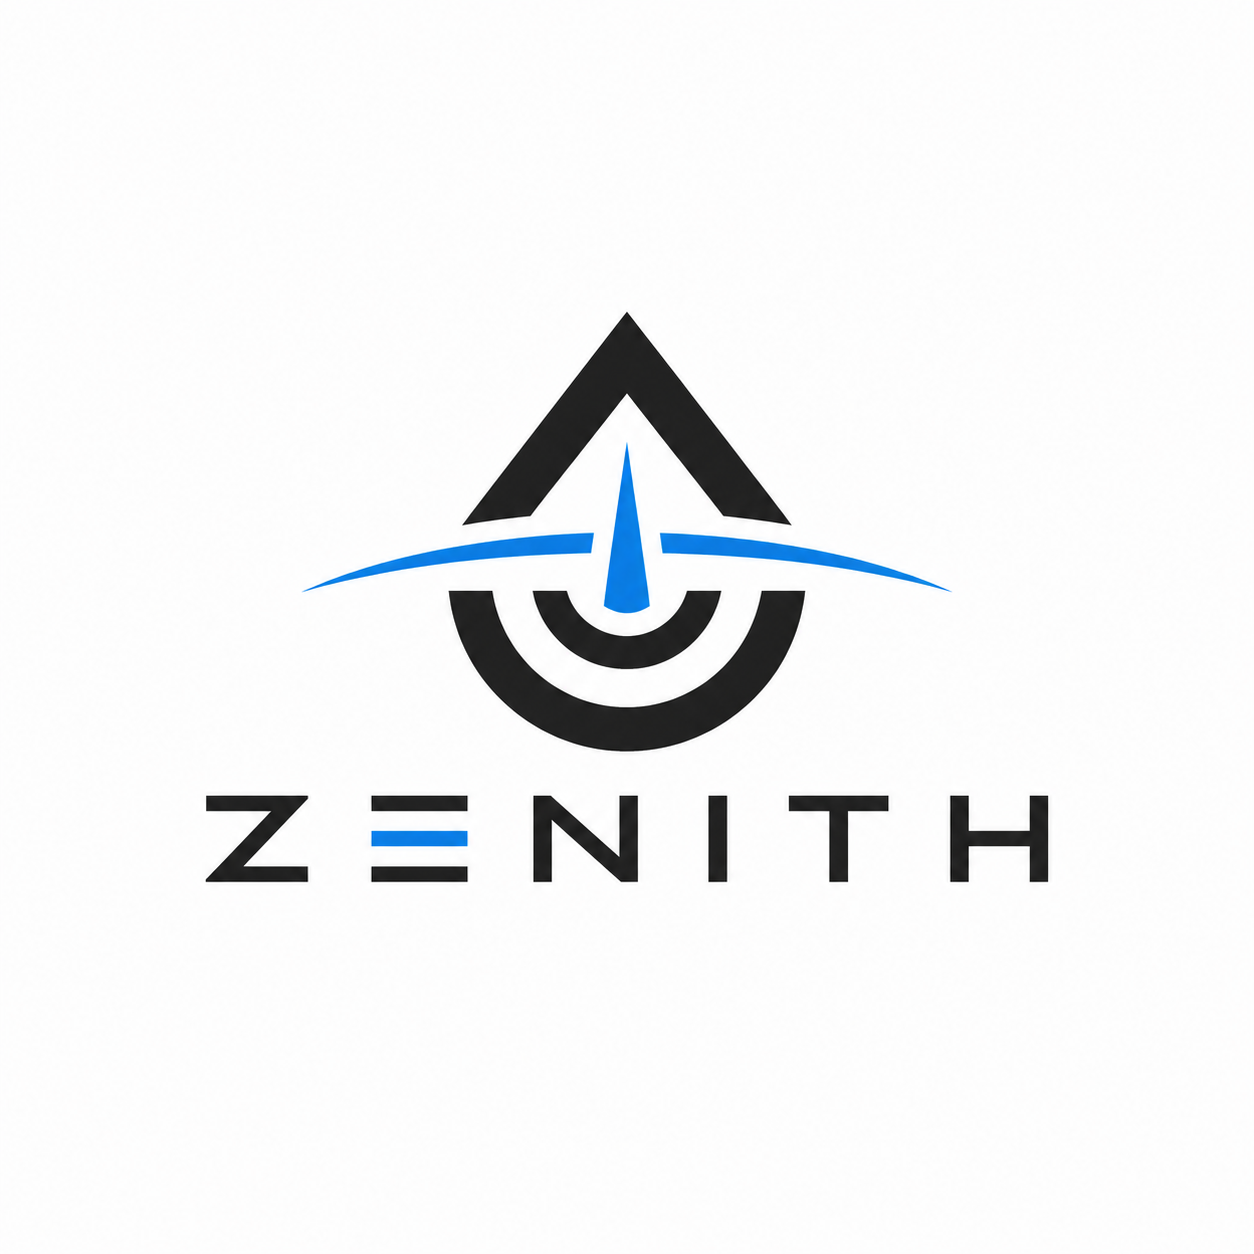
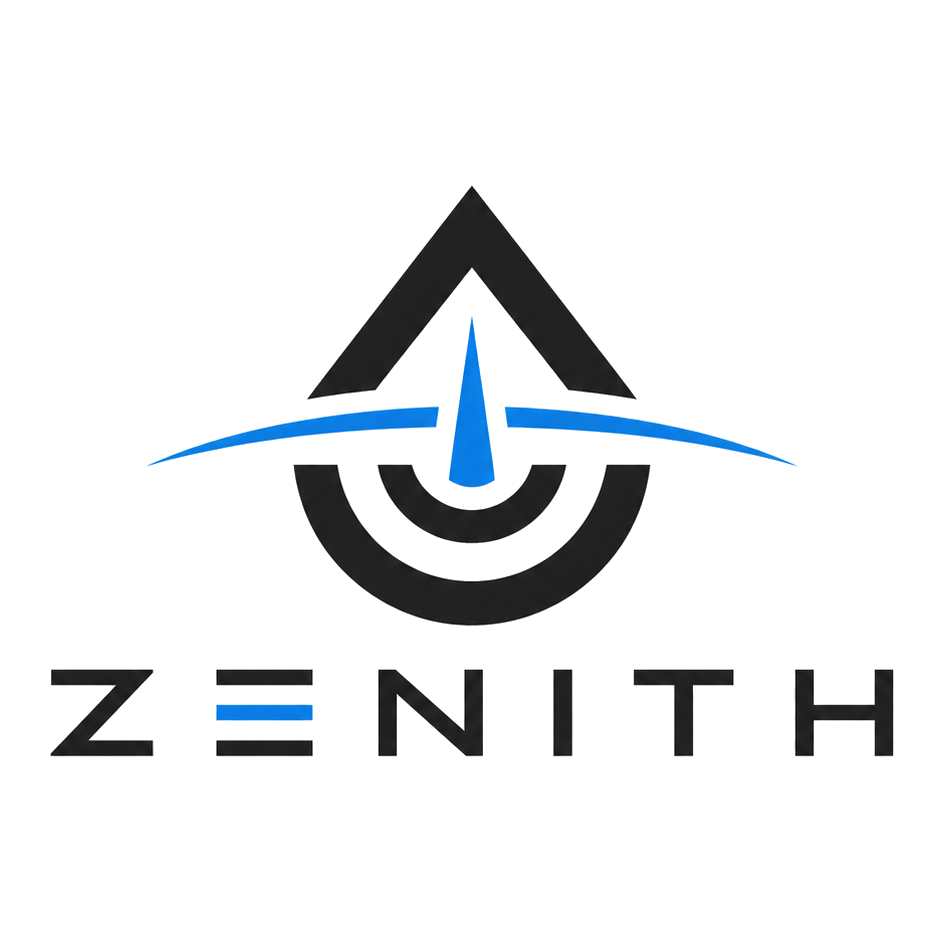
fix: Header恢复文字，Logo裁剪白边+透明背景生成ICO窗口图标
- Header 恢复 ZENITH/Ground Station 文字显示
- Zenith.png 裁剪纯白边距，背景替换为透明
- 新增 Zenith.ico 多尺寸图标(16-256px)，用于窗口和任务栏图标

diff --git a/qml/Main.qml b/qml/Main.qml
@@ -32,12 +32,10 @@ ApplicationWindow {
                     anchors.left: parent.left; anchors.verticalCenter: parent.verticalCenter
                     anchors.leftMargin: 14; spacing: 10
 
-                    Image {
-                        source: "qrc:/Zenith.png"
-                        width: 36; height: 36
-                        fillMode: Image.PreserveAspectFit
-                        anchors.verticalCenter: parent.verticalCenter
-                        smooth: true; mipmap: true
+                    Column {
+                        anchors.verticalCenter: parent.verticalCenter; spacing: 1
+                        Text { text: "ZENITH"; color: "#58A6FF"; font.pixelSize: 17; font.bold: true; font.letterSpacing: 3 }
+                        Text { text: "Ground Station"; color: "#6E7681"; font.pixelSize: 8; font.letterSpacing: 1 }
                     }
 
                     Rectangle { width: 1; height: 26; color: "#30363D"; anchors.verticalCenter: parent.verticalCenter }

diff --git a/src/main.cpp b/src/main.cpp
@@ -13,7 +13,7 @@ int main(int argc, char *argv[])
     QGuiApplication app(argc, argv);
     QGuiApplication::setApplicationName("Zenith Ground Station");
     QGuiApplication::setOrganizationName("AMOVLAB");
-    QGuiApplication::setWindowIcon(QIcon(":/Zenith.png"));
+    QGuiApplication::setWindowIcon(QIcon(":/Zenith.ico"));
     QQuickStyle::setStyle("Basic");
 
     AppState appState;
